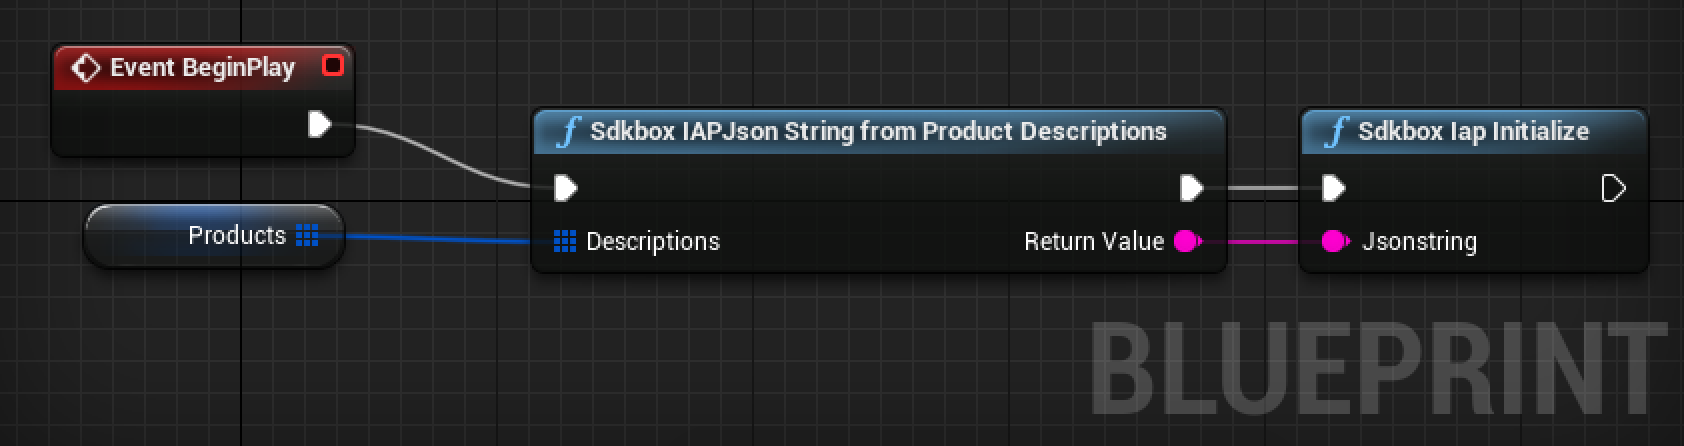
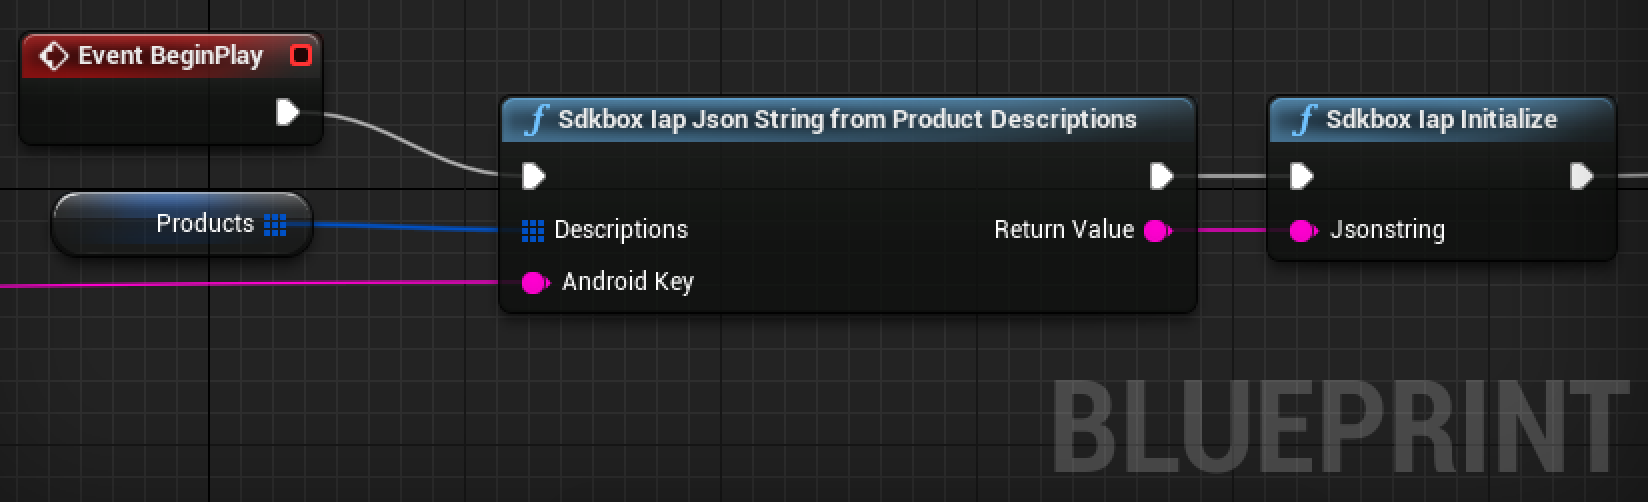
updated ue4 docs

diff --git a/docs/unreal/iap/index.md b/docs/unreal/iap/index.md
@@ -43,9 +43,11 @@ It is important to call the SDKBOX IAP initialization method early, or at least 
 
 The init method takes a JSON string as a parameter. You can pass a raw string if you would like, but you can also add the product descriptions in the Blueprint editor and build the string at runtime.
 
+**Important:** on Android, you will need to supply the license key which you will find in the **Services & APIs** section for your app in the Google Play Console. This is very important, as IAP will not function correctly without it. This key should be part of the JSON string, or passed into **AndroidKey** on the ```Sdkbox IAP JSON String from Product Descriptions``` function. 
+
 ![](img2.png)
 
-To do this, first add a variable ```Products``` of type ```SDKBox IAPProductDescription``` and make it an Array. 
+To add products in the Blueprint editor, first add a variable ```Products``` of type ```SDKBox IAPProductDescription``` and make it an Array. 
 
 Now you can add products in the editor by clicking on Products and adding items to the Default Value in the Details pane.
 
